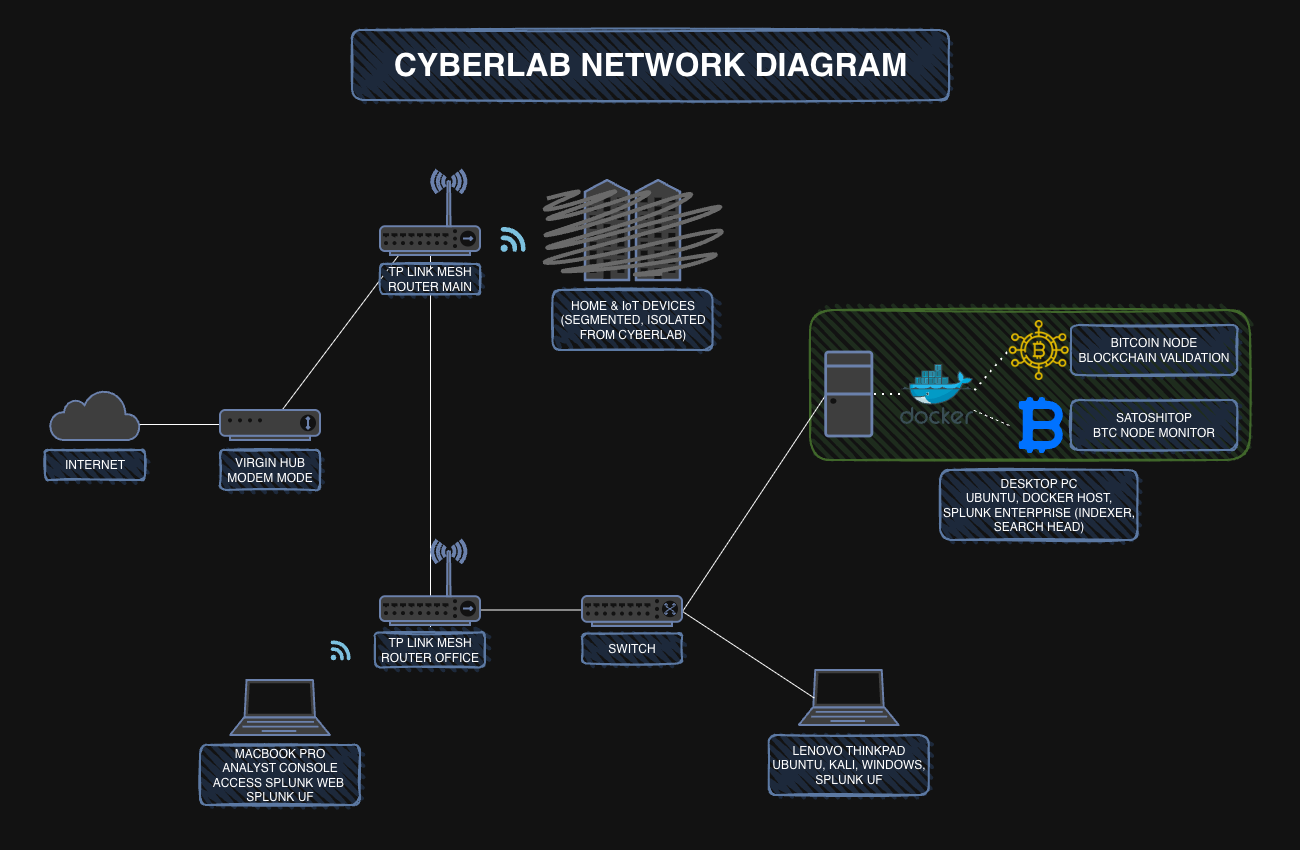
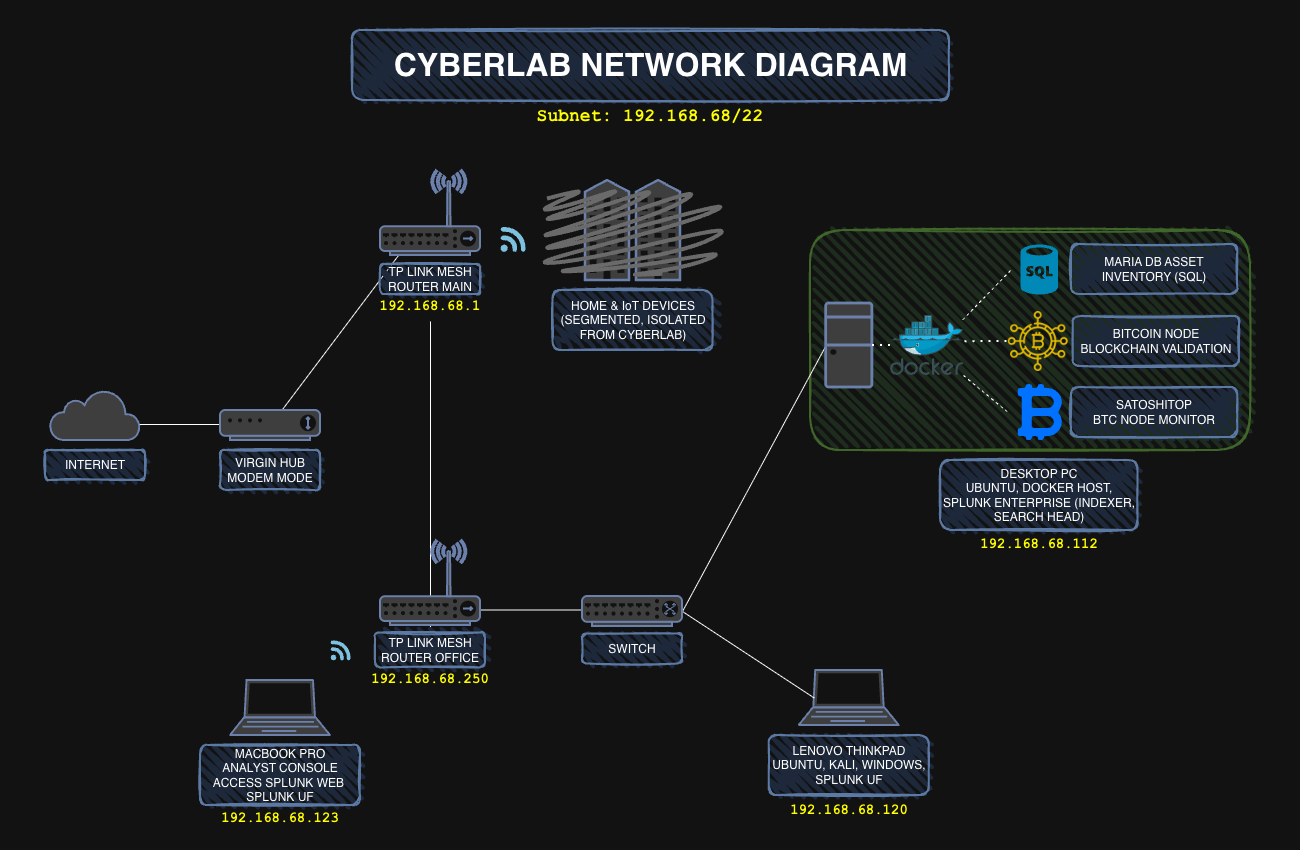
Added netwoking_fundamentals.md and updated network diagram

diff --git a/docs/networking_fundamentals.md b/docs/networking_fundamentals.md
@@ -1,0 +1,90 @@
+# Cyberlab Networking Fundamentals
+
+This file is a simple record of the networking basics I inspected in my Cyberlab — things like packet behaviour, routing, and how my machines talk to each other.
+
+## Table of Contents
+1. [Routing Table (MacBook Pro)](#routing-table-macbook-pro)
+2. [Network Segmentation](#network-segmentation-in-my-cyberlab)
+3. [Packet → Log Correlation](#packet--log-correlation-ssh-authentication-failure)
+
+---
+
+## Routing Table (MacBook Pro)
+
+This is the list of paths my MacBook uses to decide where outbound packets should go.  
+It shows which traffic stays inside the LAN and which traffic gets forwarded through the router.
+
+**Key entries:**
+- **default → 192.168.68.1**  
+  My TP-Link / Deco router. Anything that isn’t local goes through this gateway.
+
+
+- **192.168.68/22 → link#15 (en0)**  
+  My LAN — 192.168.68.x up to 192.168.71.x — is directly reachable over Wi-Fi.  
+  No router needed; ARP resolves it.
+
+
+- **127.0.0.1 → lo0**  
+  Loopback. My machine talking to itself.
+
+
+- **link#15**  
+  macOS’s internal ID for the Wi-Fi interface.  
+  Whenever this appears, it means: “Send directly over Wi-Fi.”
+
+**Screenshot:**  
+
+
+![Routing Table](../assets/routing_table_mbp.png)
+
+**Summary:**
+Local traffic stays on Wi-Fi (ARP).  
+Everything else goes to **192.168.68.1** for internet access.
+
+---
+
+## Network Segmentation in My Cyberlab
+
+My home network doesn’t use formal VLANs yet, but it already has two logical tiers:
+
+- **Main LAN** — trusted devices  
+  (MacBook Pro, ThinkPad, server / Splunk host)
+
+- **IoT LAN** — low-trust devices  
+  (smart home devices, tablets, gaming consoles,...)
+
+On the Deco mesh these appear as two separate networks. Behind the scenes they behave like two broadcast domains, keeping untrusted IoT devices away from machines that store logs, credentials, and security tools.
+
+Later, when I switch to a managed switch, I’ll replace Deco’s isolation with real VLANs.
+
+---
+
+## Packet → Log Correlation (SSH Authentication Failure)
+
+To test how network activity becomes SIEM logs, I generated a few **failed SSH login attempts** from my MacBook (192.168.68.123) to the SOA server.
+
+### Wireshark View  
+Saw the normal TCP handshake (SYN → SYN/ACK → ACK) followed by SSH negotiation.
+
+**Screenshot:**
+
+
+![Wireshark SSH](../assets/wireshark_ssh.png)
+
+### Splunk View  
+Searched:
+`index=endpoints host=SOA sourcetype=linux_secure (“Failed password” OR “Invalid user” OR “Connection closed”)`
+
+Splunk immediately showed the corresponding failed authentication logs, forwarded by the Universal Forwarder.
+
+**Screenshot:**  
+![Splunk SSH](../assets/splunk_ssh.png)
+
+### End-to-end visibility path:
+packet on the wire  
+→ syslog on SOA  
+→ forwarded by Splunk UF  
+→ indexed in Splunk  
+→ visible in search
+
+---
